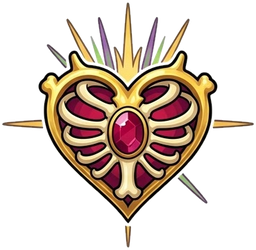
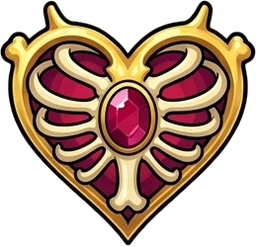
Clean asset cuts, rework torch and crystal animation
Claude-Session: https://claude.ai/code/session_01VhYJCMD3xx8A4qbiZVcxoh

diff --git a/js/game.js b/js/game.js
@@ -2308,15 +2308,8 @@ Scenes.crypt = {
     // torches
     [[60, 0], [300, 0], [200, 1], [60, 2], [250, 2]].forEach(([x, r], i) => {
       const y = ROOM_TOP[r] + 44, f = Math.sin(time * 10 + i * 2) * 1.5;
+      if (drawTorch(x, y, i)) return;
       Art.glowAt(x, y - 8, 52 + f * 3, 'rgba(125,255,74,0.22)');
-      if (animDeco('deco_torch', x, y - 4, 52, 0.34, i, (tt, lit) => {
-        ctx.transform(1, 0, Math.sin(tt * 7) * 0.08, 1, 0, 0);
-        ctx.scale(1 + Math.sin(tt * 13) * 0.05, 1 + Math.sin(tt * 9) * 0.1 + Math.sin(tt * 23) * 0.04);
-        lit(0.15 + 0.2 * Math.abs(Math.sin(tt * 11)));
-      })) {
-        if (Math.random() < 0.04 && FX.parts.length < 200) FX.parts.push({ x: x + rnd(-3, 3), y: y - 26, vx: rnd(-8, 8), vy: -30, life: 0.7, t: 0, col: C.toxic, r: 1.6, g: -10 });
-        return;
-      }
       ctx.fillStyle = '#5a4030'; ctx.strokeStyle = C.ink; ctx.lineWidth = 2;
       ctx.beginPath(); ctx.moveTo(x - 6, y - 4); ctx.lineTo(x + 6, y - 4); ctx.lineTo(x + 3, y + 16); ctx.lineTo(x - 3, y + 16); ctx.closePath(); ctx.fill(); ctx.stroke();
       ctx.fillStyle = '#3a3440'; ctx.fillRect(x - 8, y - 6, 16, 4); ctx.strokeRect(x - 8, y - 6, 16, 4);
@@ -2332,7 +2325,7 @@ Scenes.crypt = {
       const type = S.trapSlots[i], cd = this.trapCd[i], ready = cd <= 0 && (this.phase === 'wave' || this.phase === 'tuto');
       const fight = this.phase === 'wave' || this.phase === 'tuto';
       Art.trap(type, TRAP_X[i], FLOOR[i] + 2, 40, ready, fight ? 1 - cd / D.traps[type].cd : undefined, this.trapAnim[i] > 0);
-      if (this.phase === 'prep' && S.tuto >= 99) txt(t('tr_' + type), TRAP_X[i], FLOOR[i] + 18, 9, C.dim, 'center', { stroke: false });
+      if (this.phase === 'prep' && S.tuto >= 99) txt(t('tr_' + type), TRAP_X[i], FLOOR[i] - 30, 10, C.bone, 'center');
     }
     // postes de garde
     if (this.phase === 'prep') for (let r = 0; r < 3; r++) for (let i = 0; i < 2; i++) {
@@ -2372,9 +2365,9 @@ Scenes.crypt = {
     for (let r = 0; r < 3; r++) {
       const y = FLOOR[r];
       if (fl) {
-        const h = 16, w = fl.naturalWidth * h / fl.naturalHeight;
+        const h = 18, w = fl.naturalWidth * h / fl.naturalHeight;
         ctx.save(); ctx.beginPath(); ctx.rect(8, y - 3, W - 16, h); ctx.clip();
-        for (let x = 8; x < W - 8; x += w - 1) ctx.drawImage(fl, x, y - 3, w, h);
+        for (let x = 8 - (r * 17) % w; x < W - 8; x += w - 0.5) ctx.drawImage(fl, x, y - 3, w + 0.5, h);
         ctx.restore(); continue;
       }
       ctx.fillStyle = '#4a3d58'; ctx.fillRect(8, y, W - 16, 11);
@@ -2384,7 +2377,7 @@ Scenes.crypt = {
       ctx.strokeStyle = C.ink; ctx.beginPath(); ctx.moveTo(8, y); ctx.lineTo(W - 8, y); ctx.stroke();
     }
     [[333, FLOOR[0] + 8, FLOOR[1] + 2], [25, FLOOR[1] + 8, FLOOR[2] + 2]].forEach(([x, y0, y1]) => {
-      if (la) { const w = 26; ctx.save(); ctx.beginPath(); ctx.rect(x - w, y0, w * 2, y1 - y0); ctx.clip(); const h = la.naturalHeight * w / la.naturalWidth; for (let y = y0; y < y1; y += h - 1) ctx.drawImage(la, x - w / 2, y, w, h); ctx.restore(); return; }
+      if (la) { const w = 26; ctx.save(); ctx.beginPath(); ctx.rect(x - w, y0, w * 2, y1 - y0); ctx.clip(); const h = la.naturalHeight * w / la.naturalWidth; for (let y = y0; y < y1; y += h - 0.5) ctx.drawImage(la, x - w / 2, y, w, h + 0.5); ctx.restore(); return; }
       ctx.strokeStyle = C.ink; ctx.lineWidth = 6;
       [-9, 9].forEach(d => { ctx.beginPath(); ctx.moveTo(x + d, y0); ctx.lineTo(x + d, y1); ctx.stroke(); });
       for (let y = y0 + 8; y < y1 - 2; y += 12) { ctx.beginPath(); ctx.moveTo(x - 9, y); ctx.lineTo(x + 9, y); ctx.stroke(); }
@@ -2395,11 +2388,8 @@ Scenes.crypt = {
   },
   drawPhylactery() {
     const x = 326, y = FLOOR[2] - 30, hp = this.run ? this.run.hp : D.cryptHp;
+    if (drawCrystal(x, FLOOR[2] + 2, hp <= 3)) return;
     Art.glowAt(x, y, 34 + Math.sin(time * 3) * 4, hp > 3 ? 'rgba(125,255,74,0.4)' : 'rgba(255,90,50,0.5)');
-    if (animDeco('deco_crystal', x, y + 2, 66, 0.69, 0, (tt, lit) => {
-      ctx.translate(0, Math.sin(tt * 2) * 2.5 - 2);
-      lit(hp > 3 ? 0.1 + 0.25 * (0.5 + 0.5 * Math.sin(tt * 3)) : 0.3 + 0.3 * Math.abs(Math.sin(tt * 8)), hp > 3 ? null : 'rgba(255,70,40,0.9)');
-    })) return;
     ctx.fillStyle = C.stoneD; ctx.fillRect(x - 14, y + 18, 28, 14); ctx.strokeStyle = C.ink; ctx.lineWidth = 2; ctx.strokeRect(x - 14, y + 18, 28, 14);
     ctx.beginPath(); ctx.moveTo(x, y - 24); ctx.lineTo(x + 13, y); ctx.lineTo(x, y + 18); ctx.lineTo(x - 13, y); ctx.closePath();
     ctx.fillStyle = hp > 3 ? C.toxic : '#ff6a3a'; ctx.fill(); ctx.lineWidth = 3; ctx.strokeStyle = C.ink; ctx.stroke();
@@ -2517,27 +2507,57 @@ Scenes.crypt = {
 };
 
 // ============================== Scène : Menu ==============================
-// décor en image dont le haut (flamme, cristal) est animé : anim(t, lit) déforme le haut, lit(a, teinte) l'illumine
-const animTint = document.createElement('canvas');
-function animDeco(k, x, y, size, split, seed, anim) {
-  const im = Art.img(k); if (!im) return false;
-  const iw = im.naturalWidth, ih = im.naturalHeight, s = size / Math.max(iw, ih), w = iw * s, h = ih * s, y0 = y - h / 2, sh = ih * split, hh = sh * s;
-  ctx.drawImage(im, 0, sh - 1, iw, ih - sh + 1, x - w / 2, y0 + hh - s, w, h - hh + s);
-  ctx.save(); ctx.translate(x, y0 + hh);
-  let glow = 0, tint = null;
-  anim(time + seed * 1.7, (a, c) => { glow = a; tint = c; });
-  ctx.drawImage(im, 0, 0, iw, sh, -w / 2, -hh, w, hh);
-  if (glow > 0) {
-    let src = im;
-    if (tint) {
-      animTint.width = iw; animTint.height = Math.ceil(sh); const g = animTint.getContext('2d');
-      g.globalCompositeOperation = 'source-over'; g.clearRect(0, 0, iw, sh); g.drawImage(im, 0, 0);
-      g.globalCompositeOperation = 'source-atop'; g.fillStyle = tint; g.fillRect(0, 0, iw, sh); src = animTint;
+// Bruit doux (somme de sinus) pour des animations organiques, sans saccades
+const wobble = (t, a, b, c) => Math.sin(t * a) * 0.5 + Math.sin(t * b + 1.3) * 0.3 + Math.sin(t * c + 2.1) * 0.2;
+// Torche murale en image : le corps reste fixe, la flamme (haut de l'image) ondule depuis sa base
+const TORCH_CUT = 0.286;
+function drawTorch(x, y, seed) {
+  const im = Art.img('deco_torch'); if (!im) return false;
+  const iw = im.naturalWidth, ih = im.naturalHeight, h = 58, s = h / ih, w = iw * s, y0 = y - h / 2 - 6;
+  const cut = Math.round(ih * TORCH_CUT), ch = cut * s, t = time + seed * 3.7;
+  const n1 = wobble(t, 5.3, 8.9, 14.7), n2 = wobble(t, 3.1, 6.7, 11.3);
+  Art.glowAt(x, y0 + ch * 0.7, 44 + n1 * 4, 'rgba(125,255,74,' + (0.2 + n1 * 0.05).toFixed(3) + ')');
+  ctx.drawImage(im, 0, cut, iw, ih - cut, x - w / 2, y0 + ch, w, h - ch);
+  ctx.save(); ctx.translate(x, y0 + ch);
+  ctx.transform(1, 0, n2 * 0.16, 1 + n1 * 0.1, 0, 0);
+  ctx.drawImage(im, 0, 0, iw, cut, -w / 2, -ch, w, ch);
+  ctx.globalCompositeOperation = 'lighter'; ctx.globalAlpha = 0.1 + 0.12 * (n1 + 1) / 2;
+  ctx.drawImage(im, 0, 0, iw, cut, -w / 2, -ch, w, ch);
+  ctx.restore();
+  return true;
+}
+// Phylactère en image : halo qui respire, reflet qui balaie la gemme, petites étincelles ; rouge quand la crypte est presque détruite
+const sheenCv = document.createElement('canvas');
+function drawCrystal(x, bottom, danger) {
+  const im = Art.img('deco_crystal'); if (!im) return false;
+  const gem = Art.img(danger ? 'deco_crystal_red' : 'deco_crystal_gem');
+  const iw = im.naturalWidth, ih = im.naturalHeight, h = 72, s = h / ih, w = iw * s, x0 = x - w / 2, y0 = bottom - h;
+  const p = (Math.sin(time * (danger ? 6 : 2.2)) + 1) / 2, gy = y0 + h * 0.34;
+  Art.glowAt(x, gy, 40 + p * 8, danger ? 'rgba(255,60,40,' + (0.3 + p * 0.25).toFixed(3) + ')' : 'rgba(125,255,74,' + (0.22 + p * 0.16).toFixed(3) + ')');
+  ctx.drawImage(im, x0, y0, w, h);
+  if (gem) {
+    if (danger) ctx.drawImage(gem, x0, y0, w, h);
+    // reflet : une bande claire traverse la gemme toutes les 3,5 s
+    const k = (time % 3.5) / 1.2;
+    if (k < 1) {
+      sheenCv.width = iw; sheenCv.height = ih; const g = sheenCv.getContext('2d');
+      g.drawImage(gem, 0, 0); g.globalCompositeOperation = 'source-in';
+      const bx = -iw + k * iw * 3, gr = g.createLinearGradient(bx, 0, bx + iw * 0.8, ih * 0.5);
+      gr.addColorStop(0, 'rgba(255,255,255,0)'); gr.addColorStop(0.5, 'rgba(255,255,255,0.85)'); gr.addColorStop(1, 'rgba(255,255,255,0)');
+      g.fillStyle = gr; g.fillRect(0, 0, iw, ih);
+      ctx.save(); ctx.globalCompositeOperation = 'lighter'; ctx.globalAlpha = 0.55; ctx.drawImage(sheenCv, x0, y0, w, h); ctx.restore();
     }
-    ctx.globalCompositeOperation = 'lighter'; ctx.globalAlpha = Math.min(1, glow);
-    ctx.drawImage(src, 0, 0, iw, sh, -w / 2, -hh, w, hh);
+    ctx.save(); ctx.globalCompositeOperation = 'lighter'; ctx.globalAlpha = 0.08 + p * 0.18; ctx.drawImage(gem, x0, y0, w, h); ctx.restore();
   }
-  ctx.restore(); return true;
+  // étincelles qui scintillent sur les arêtes
+  [[-0.32, 0.22, 0], [0.3, 0.38, 2.1], [0.05, 0.05, 4.2]].forEach(([dx, dy, ph]) => {
+    const a = Math.max(0, Math.sin(time * 1.6 + ph)) ** 6; if (a < 0.02) return;
+    const sx = x + dx * w, sy = y0 + dy * h, r = 2 + a * 3;
+    ctx.save(); ctx.globalAlpha = a; ctx.fillStyle = danger ? '#ffd0c0' : '#f0ffe0';
+    ctx.beginPath(); ctx.moveTo(sx, sy - r * 1.6); ctx.lineTo(sx + r * 0.35, sy - r * 0.35); ctx.lineTo(sx + r * 1.6, sy); ctx.lineTo(sx + r * 0.35, sy + r * 0.35);
+    ctx.lineTo(sx, sy + r * 1.6); ctx.lineTo(sx - r * 0.35, sy + r * 0.35); ctx.lineTo(sx - r * 1.6, sy); ctx.lineTo(sx - r * 0.35, sy - r * 0.35); ctx.fill(); ctx.restore();
+  });
+  return true;
 }
 function bgNight(top, bot) {
   const g = ctx.createLinearGradient(0, 0, 0, H); g.addColorStop(0, top || '#1d1030'); g.addColorStop(1, bot || '#0a0510');

diff --git a/js/assets.js b/js/assets.js
@@ -1,3 +1,3 @@
 /* Liste des images présentes dans assets/ (sans extension). Vide = dessins procéduraux. */
-window.ASSET_LIST = ["agilelegs", "arcanehand", "archwings", "bg_altar", "bg_crypt", "bladearm", "bonearm", "bonelegs", "cape", "captainarm", "crownskull", "deco_castle", "deco_cross", "deco_crystal", "deco_floor", "deco_ladder", "deco_moon", "deco_tomb", "deco_torch", "gargoyle", "golemarm", "golemlegs", "golemtorso", "greaves", "halo", "helm", "hero_archangel", "hero_archmage", "hero_captain", "hero_highpriest", "hero_mage", "hero_paladin", "hero_peasant", "hero_priest", "hero_queen", "hero_rogue", "hero_warrior", "holyplate", "hood", "ic_altar", "ic_auto", "ic_back", "ic_big", "ic_bin", "ic_book", "ic_check", "ic_flag", "ic_gear", "ic_heart", "ic_lock", "ic_map", "ic_music", "ic_mute", "ic_needle", "ic_pause", "ic_play", "ic_shop", "ic_skull", "ic_soul", "ic_sound", "ic_speed", "ic_star", "ic_trophy", "ic_vib", "plate", "priestheart", "queenlegs", "ribcage", "rottenheart", "runeskull", "sacredheart", "skull", "soulgem", "steelarm", "swordarm", "titantorso", "trap_brasero", "trap_coffin", "trap_spikes", "trap_trapdoor", "vial_blood", "vial_fire", "vial_ice", "vial_lightning", "vial_poison", "vial_soul", "wings"];
+window.ASSET_LIST = ["agilelegs", "arcanehand", "archwings", "bg_altar", "bg_crypt", "bladearm", "bonearm", "bonelegs", "cape", "captainarm", "crownskull", "deco_castle", "deco_cross", "deco_crystal", "deco_crystal_gem", "deco_crystal_red", "deco_floor", "deco_ladder", "deco_moon", "deco_tomb", "deco_torch", "gargoyle", "golemarm", "golemlegs", "golemtorso", "greaves", "halo", "helm", "hero_archangel", "hero_archmage", "hero_captain", "hero_highpriest", "hero_mage", "hero_paladin", "hero_peasant", "hero_priest", "hero_queen", "hero_rogue", "hero_warrior", "holyplate", "hood", "ic_altar", "ic_auto", "ic_back", "ic_big", "ic_bin", "ic_book", "ic_check", "ic_flag", "ic_gear", "ic_heart", "ic_lock", "ic_map", "ic_music", "ic_mute", "ic_needle", "ic_pause", "ic_play", "ic_shop", "ic_skull", "ic_soul", "ic_sound", "ic_speed", "ic_star", "ic_trophy", "ic_vib", "plate", "priestheart", "queenlegs", "ribcage", "rottenheart", "runeskull", "sacredheart", "skull", "soulgem", "steelarm", "swordarm", "titantorso", "trap_brasero", "trap_coffin", "trap_spikes", "trap_trapdoor", "vial_blood", "vial_fire", "vial_ice", "vial_lightning", "vial_poison", "vial_soul", "wings"];
 window.MUSIC_LIST = [];

diff --git a/sw.js b/sw.js
@@ -1,5 +1,5 @@
 /* Service worker : jeu jouable hors ligne. Changer VERSION à chaque mise à jour. */
-const VERSION = 'necro-v13';
+const VERSION = 'necro-v14';
 const FILES = ['./', './index.html', './manifest.webmanifest', './js/lang.js', './js/data.js', './js/assets.js', './js/game.js', './icons/icon-192.png', './icons/icon-512.png'];
 self.addEventListener('install', e => { e.waitUntil(caches.open(VERSION).then(c => c.addAll(FILES)).then(() => self.skipWaiting())); });
 self.addEventListener('activate', e => { e.waitUntil(caches.keys().then(ks => Promise.all(ks.filter(k => k !== VERSION).map(k => caches.delete(k)))).then(() => self.clients.claim())); });

diff --git a/tools/cut_sheet.py b/tools/cut_sheet.py
@@ -26,6 +26,8 @@ def main():
     ap.add_argument('--rot', nargs='*', default=[])
     ap.add_argument('--tol', type=float, default=40)
     ap.add_argument('--max', type=int, default=256)
+    ap.add_argument('--keepholes', action='store_true')  # garder opaques les reflets blancs fermés (fioles, verre)
+    ap.add_argument('--out', default='')  # dossier de sortie (pas de mise à jour de assets.js)
     a = ap.parse_args()
     keys = a.keys.split(',')
     rot = {r.split(':')[0]: float(r.split(':')[1]) for r in a.rot}
@@ -44,7 +46,7 @@ def main():
     bgmask = np.isin(lab, list(edge))
     # trous fermés quasi identiques au fond et assez grands
     holes, nh = ndimage.label((diff < a.tol * 0.45) & ~bgmask)
-    if nh:
+    if nh and not a.keepholes:
         hs = ndimage.sum(np.ones_like(diff), holes, range(1, nh + 1))
         big = np.where(hs > 120)[0] + 1
         bgmask |= np.isin(holes, big)
@@ -74,7 +76,7 @@ def main():
     if cur: rows.append(cur)
     ordered = [b for r in rows for b in sorted(r, key=lambda b: b[0][1].start)]
     base = np.asarray(im)
-    out = os.path.join(ROOT, 'assets'); os.makedirs(out, exist_ok=True)
+    out = a.out or os.path.join(ROOT, 'assets'); os.makedirs(out, exist_ok=True)
     for (sl, gid), key in zip(ordered, keys):
         if key == '-': continue
         m = fg & (grp == gid)
@@ -90,6 +92,7 @@ def main():
         piece.thumbnail((a.max, a.max), Image.LANCZOS)
         piece.save(os.path.join(out, key + '.png'))
         print('ok', key, piece.size)
+    if a.out: return
     lst = sorted(f[:-4] for f in os.listdir(out) if f.endswith('.png') or (f.startswith('bg_') and f.endswith('.jpg')))
     with open(os.path.join(ROOT, 'js', 'assets.js'), 'w') as f:
         f.write('/* Liste des images présentes dans assets/ (sans extension). Vide = dessins procéduraux. */\n')
